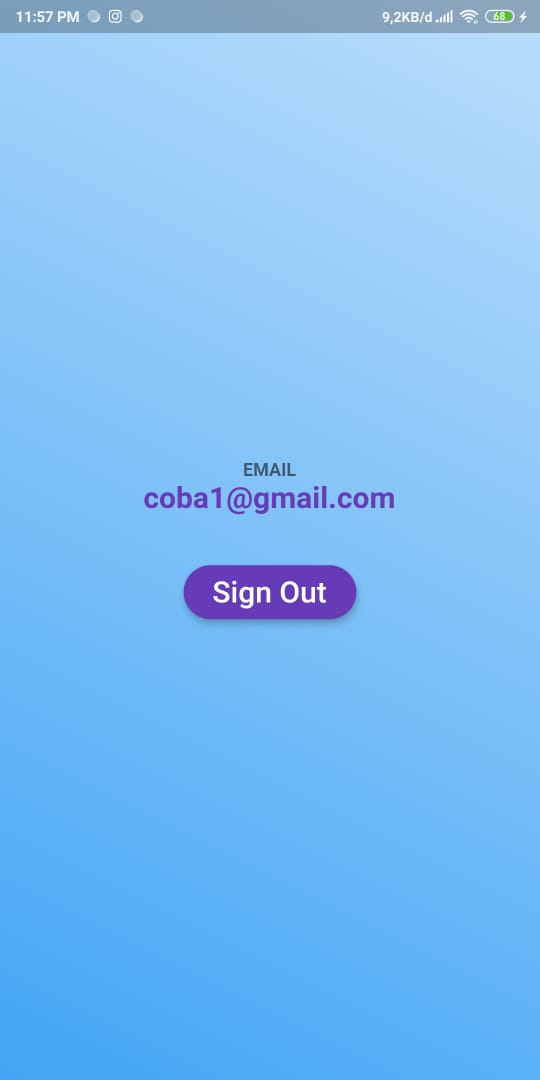
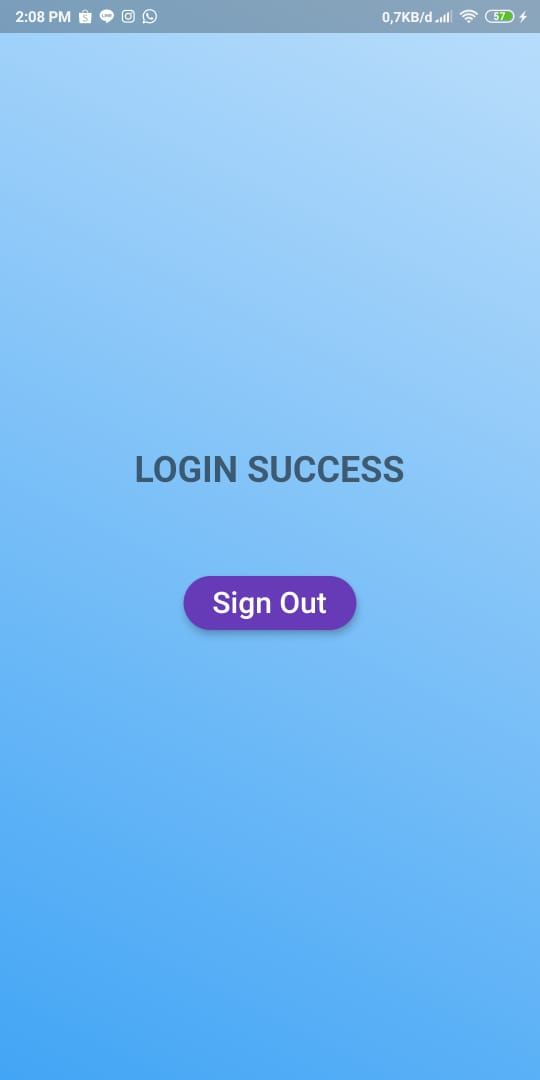
menambah screenshot hasil

diff --git a/lib/second_screen.dart b/lib/second_screen.dart
@@ -21,20 +21,13 @@ class SecondScreen extends StatelessWidget {
             mainAxisSize: MainAxisSize.max,
             children: <Widget>[
               Text(
-                'EMAIL',
+                'LOGIN SUCCESS',
                 style: TextStyle(
-                    fontSize: 15,
+                    fontSize: 30,
                     fontWeight: FontWeight.bold,
                     color: Colors.black54),
               ),
-              Text(
-                '$email',
-                style: TextStyle(
-                    fontSize: 25,
-                    color: Colors.deepPurple,
-                    fontWeight: FontWeight.bold),
-              ),
-              SizedBox(height: 40),
+              SizedBox(height: 70),
               RaisedButton(
                 onPressed: () {
                   signOutEmail();
